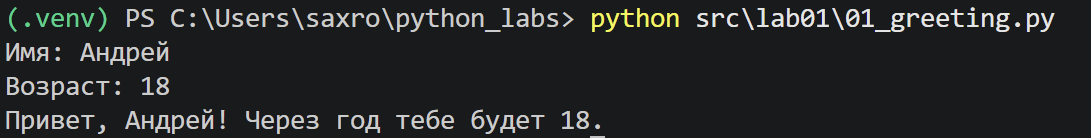
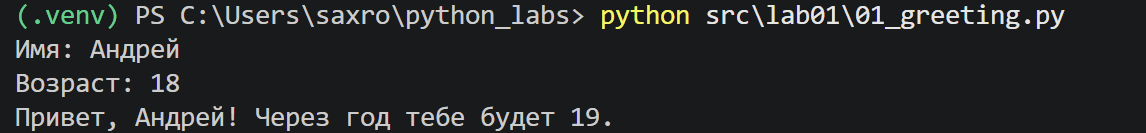
123

diff --git a/src/lab01/01_greeting.py b/src/lab01/01_greeting.py
@@ -1,3 +1,3 @@
 name = input("Имя: ")
-years = input("Возраст: ")
-print(f"Привет, {name}! Через год тебе будет {years}.")
+years = int(input("Возраст: "))
+print(f"Привет, {name}! Через год тебе будет {years + 1}.")
